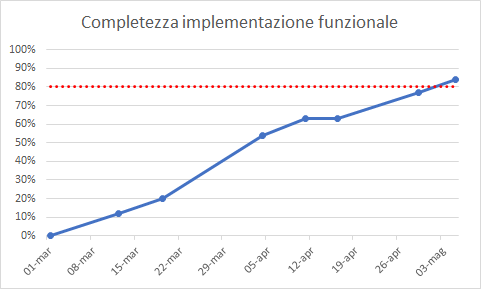
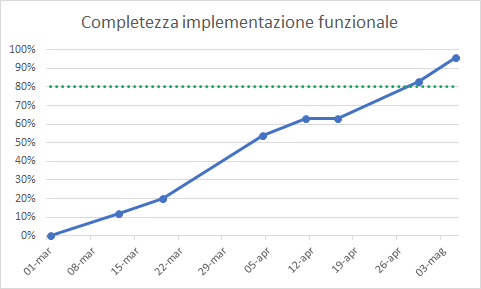
[PdQ] corretta la percentuale di requisiti funzionali coperti

diff --git a/RA/PianoDiQualifica/Res/Sezioni/SintesiMetriche.tex b/RA/PianoDiQualifica/Res/Sezioni/SintesiMetriche.tex
@@ -14,7 +14,7 @@
 		Indice di Gulpease & 50-100 & 40-100 & \textcolor{green}{55} \\ \hline
 		Branch Coverage & 70\%-100\% & 50\%-100\% & \textcolor{green}{82\%} \\ \hline
 		Statement Coverage & 70\%-100\% & 50\%-100\% & \textcolor{green}{92\%} \\ \hline
-		Completezza dell'implementazione funzionale & 100\% & 80\% & \textcolor{orange}{84\%} \\ \hline
+		Completezza dell'implementazione funzionale & 100\% & 80\% & \textcolor{orange}{96\%} \\ \hline
 		Densità di failure & 0 & 0-10 & \textcolor{orange}{4\%} \\ \hline
 		Comprensibilità delle funzionalità offerte & 90\%-100\% & 70\%-100\% & \textcolor{orange}{85\%} \\ \hline
 		Facilità di apprendimento & 0-10 & 0-20 & \textcolor{green}{9}\\ \hline

diff --git a/RA/PianoDiQualifica/Res/Sezioni/ResocontoAttivitaVerifica.tex b/RA/PianoDiQualifica/Res/Sezioni/ResocontoAttivitaVerifica.tex
@@ -331,7 +331,7 @@
     	\label{statement} 
     \end{figure}
     \paragraph{Completezza dell'implementazione funzionale} \Spazio
-    Il gruppo ha raggiunto una buona copertura dei requisiti funzionali per la consegna del prodotto.
+    Il gruppo ha raggiunto un'ottima copertura dei requisiti funzionali per la consegna del prodotto.
     \begin{figure}[H]
     	\centering 
     	\includegraphics[width=0.7\textwidth]{Images/completezza-funzionale.png}
